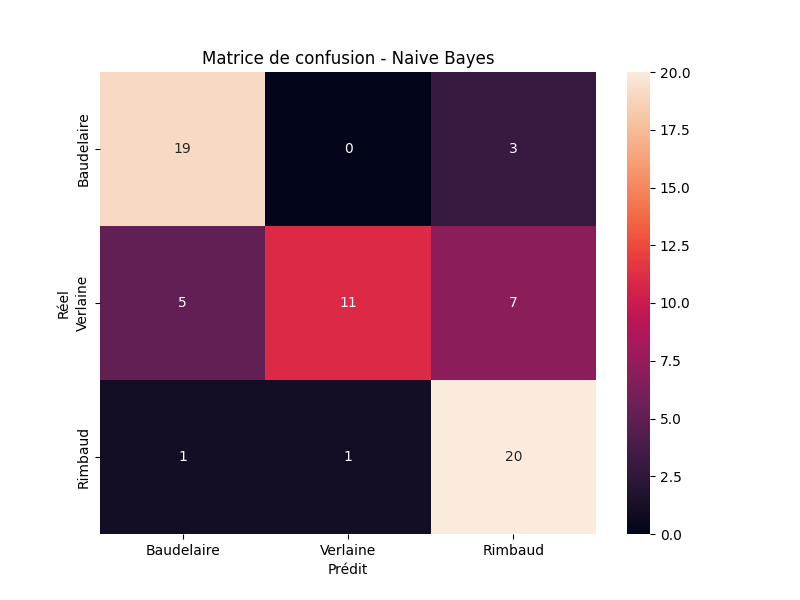
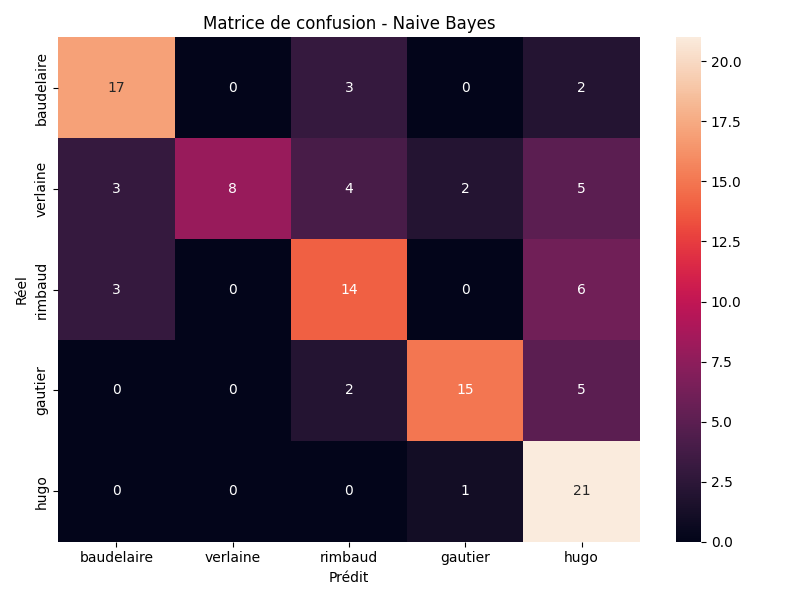
Mise à jour classification avec 5 auteurs. Naive Bayes

diff --git a/scripts/classification.py b/scripts/classification.py
@@ -12,7 +12,7 @@ random.seed(42)
 def load_corpus(corpus_dir, max_per_author=111):
     texts = []
     labels = []
-    authors = ['baudelaire', 'verlaine', 'rimbaud']
+    authors = ['baudelaire', 'verlaine', 'rimbaud', 'gautier', 'hugo']
     
     for author in authors:
         author_dir = os.path.join(corpus_dir, author)
@@ -33,6 +33,8 @@ print(f"Total: {len(texts)} poèmes")
 print(f"Baudelaire: {labels.count('baudelaire')}")
 print(f"Verlaine: {labels.count('verlaine')}")
 print(f"Rimbaud: {labels.count('rimbaud')}")
+print(f"Gautier: {labels.count('gautier')}")
+print(f"Hugo: {labels.count('hugo')}")
 
 vectorizer = TfidfVectorizer(max_features=5000, ngram_range=(1,2))
 X = vectorizer.fit_transform(texts)
@@ -44,22 +46,23 @@ X_train, X_test, y_train, y_test = train_test_split(
 print(f"\nTrain: {X_train.shape[0]} poèmes")
 print(f"Test: {X_test.shape[0]} poèmes")
 
+authors = ['baudelaire', 'verlaine', 'rimbaud', 'gautier', 'hugo']
+
 print("\n=== Naive Bayes ===")
 clf_nb = MultinomialNB()
 clf_nb.fit(X_train, y_train)
 y_pred_nb = clf_nb.predict(X_test)
 
-print(classification_report(y_test, y_pred_nb,
-      target_names=['baudelaire', 'verlaine', 'rimbaud']))
+print(classification_report(y_test, y_pred_nb, target_names=authors))
 
-cm_nb = confusion_matrix(y_test, y_pred_nb,
-        labels=['baudelaire', 'verlaine', 'rimbaud'])
+cm_nb = confusion_matrix(y_test, y_pred_nb, labels=authors)
 plt.figure(figsize=(8, 6))
 sns.heatmap(cm_nb, annot=True, fmt='d',
-            xticklabels=['Baudelaire', 'Verlaine', 'Rimbaud'],
-            yticklabels=['Baudelaire', 'Verlaine', 'Rimbaud'])
+            xticklabels=authors,
+            yticklabels=authors)
 plt.title('Matrice de confusion - Naive Bayes')
 plt.ylabel('Réel')
 plt.xlabel('Prédit')
-plt.savefig('confusion_matrix_nb.png')
-print("Matrice de confusion sauvegardée: confusion_matrix_nb.png")
+plt.tight_layout()
+plt.savefig('resultats/confusion_matrix_nb.png')
+print("Matrice de confusion sauvegardée: resultats/confusion_matrix_nb.png")
